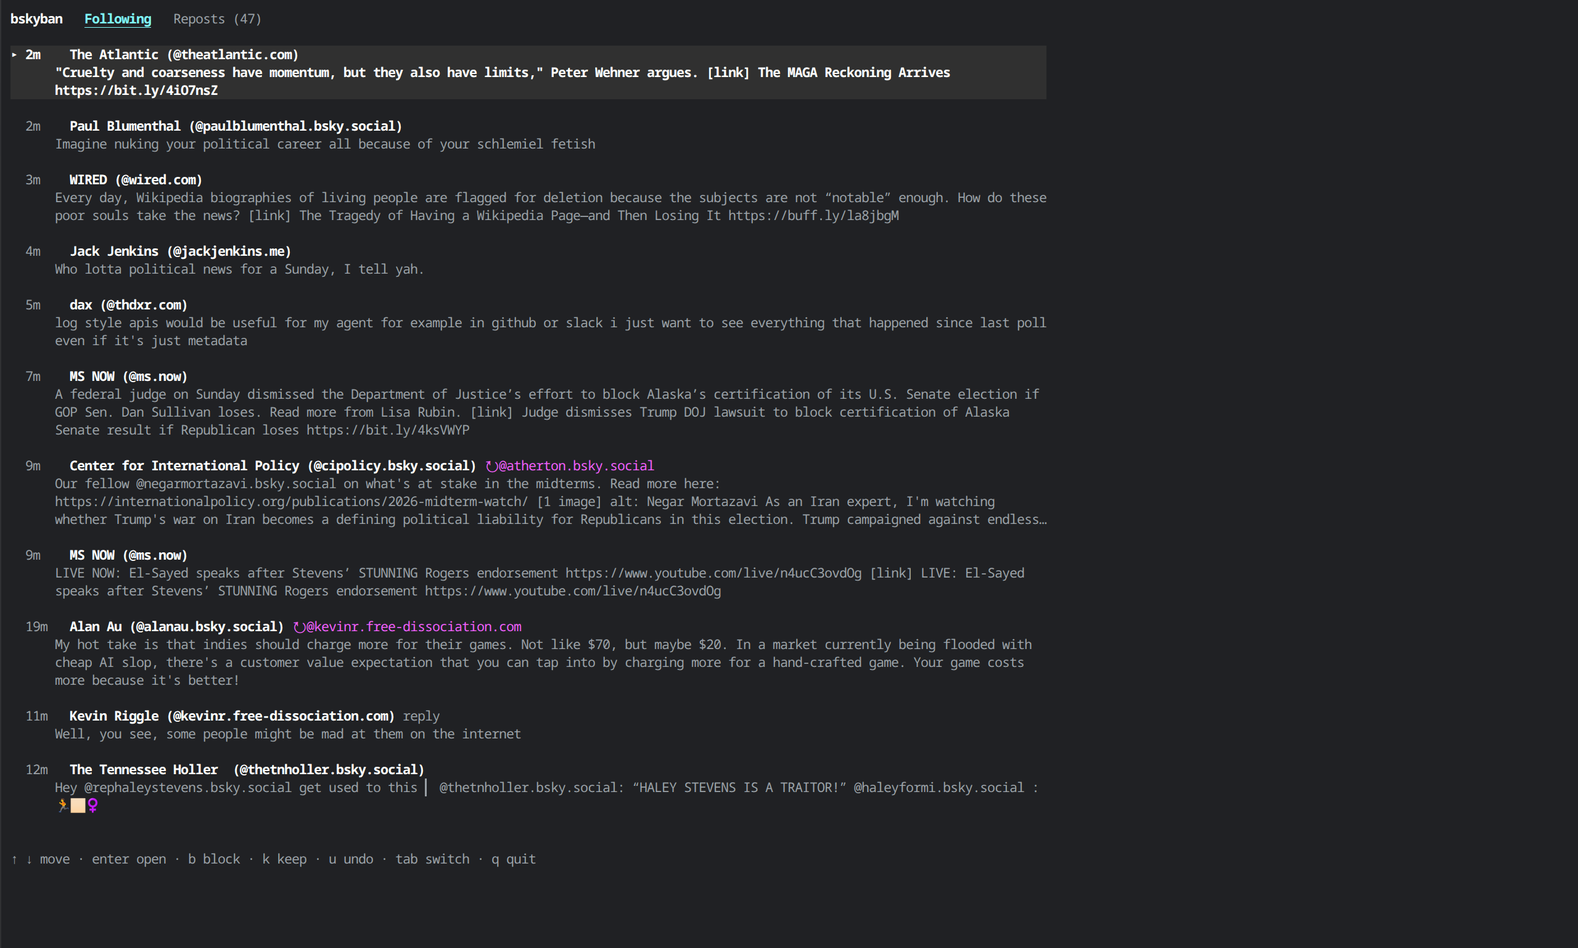
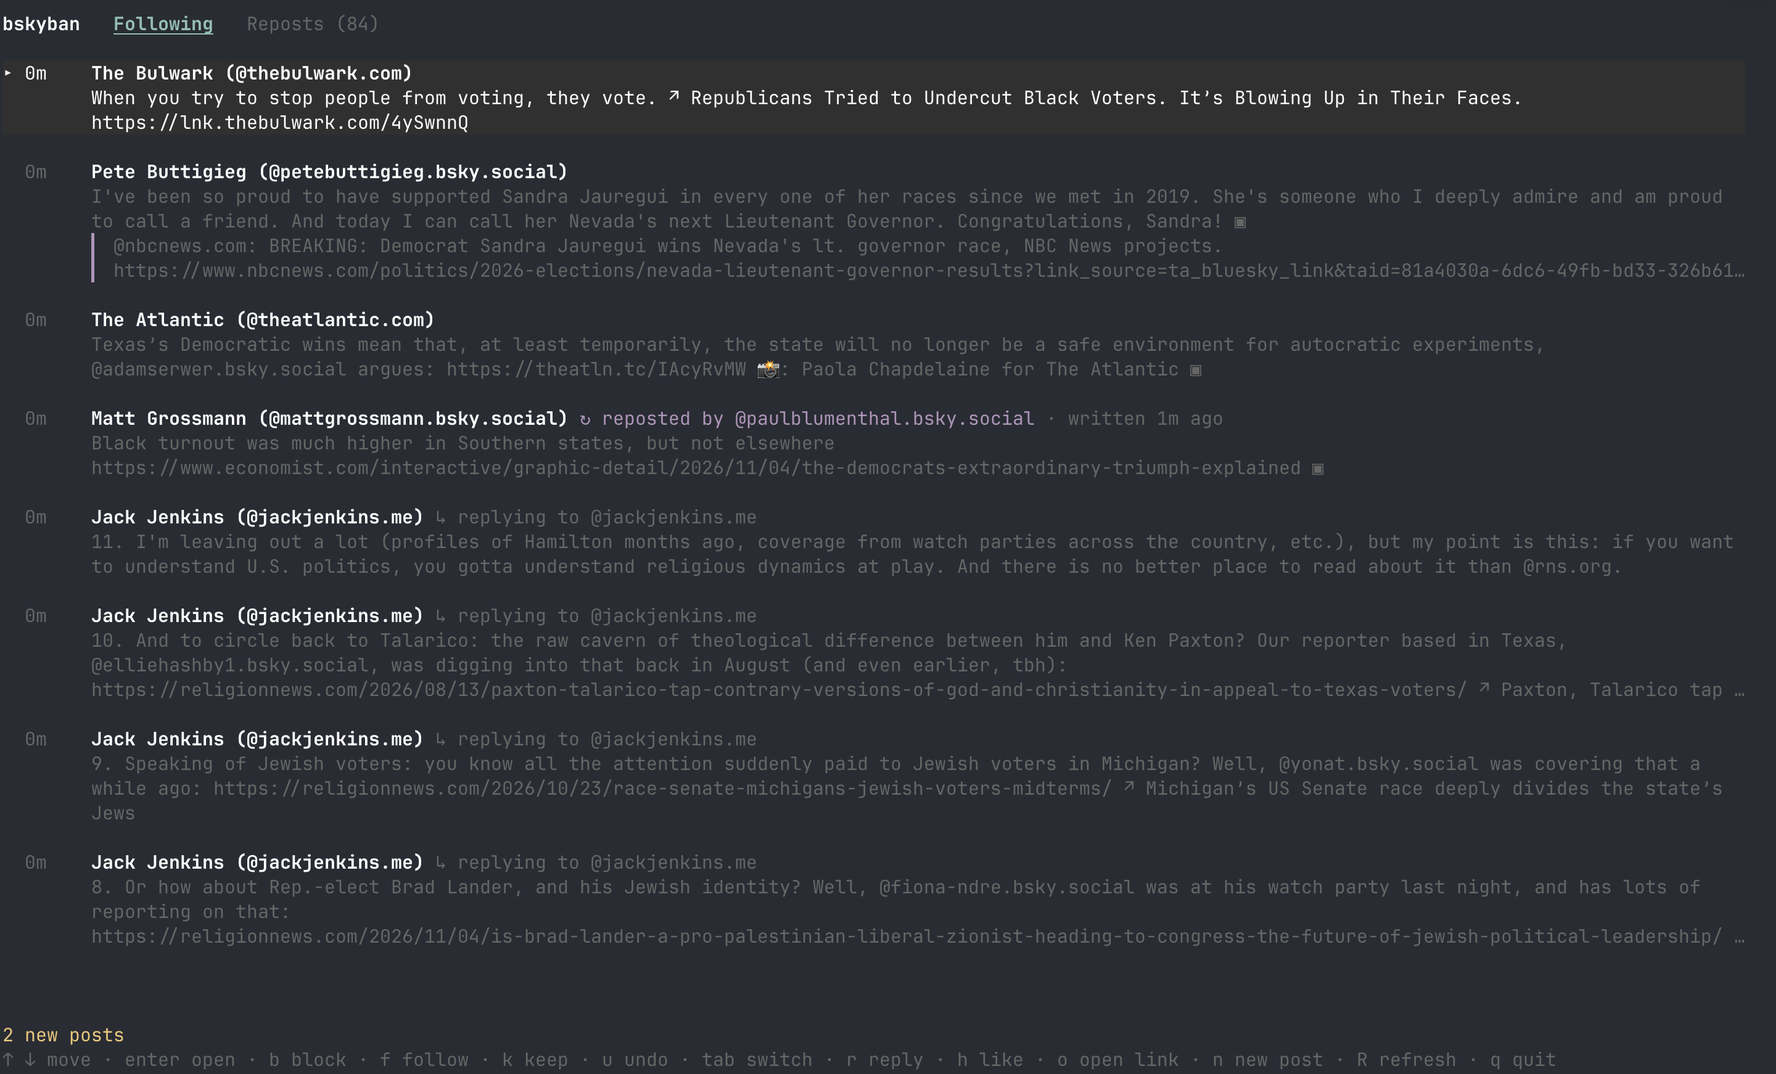
Add PKG.md and ARCHITECTURE.md, refresh screenshots, drop Windows launcher, bump x/sys

diff --git a/images_test.go b/images_test.go
@@ -52,8 +52,6 @@ func TestBrowserCommandPrefersBROWSER(t *testing.T) {
 	switch runtime.GOOS {
 	case "darwin":
 		wantDefault = "open " + u
-	case "windows":
-		wantDefault = "rundll32 url.dll,FileProtocolHandler " + u
 	}
 	for browser, want := range map[string]string{
 		"":                              wantDefault,

diff --git a/images.go b/images.go
@@ -45,8 +45,6 @@ func browserCommand(browser, u string) *exec.Cmd {
 	switch runtime.GOOS {
 	case "darwin":
 		return exec.Command("open", u)
-	case "windows":
-		return exec.Command("rundll32", "url.dll,FileProtocolHandler", u)
 	default:
 		return exec.Command("xdg-open", u)
 	}

diff --git a/ARCHITECTURE.md b/ARCHITECTURE.md
@@ -1,0 +1,192 @@
+# Architecture: bskyban
+
+This document describes the components and data flow of bskyban. For usage, keys and flags see `README.md`; for dependencies see `PKG.md`.
+
+## High-Level Overview
+
+bskyban is a single Go binary (`package main`, no sub-packages). It is a client for the Bluesky AT Protocol that offers two front ends over the same code: an interactive terminal UI (Bubble Tea) and scriptable subcommands. It talks only to the user's PDS over HTTPS and keeps two small local files.
+
+```mermaid
+graph TD
+    subgraph "Front ends"
+        TUI[TUI: review / feed / posts\nBubble Tea model]
+        CLI[Subcommands: list, show, block,\nfollow, like, post, log ...]
+    end
+
+    subgraph "Application layer"
+        App[app\nclient + state + audit]
+    end
+
+    subgraph "Local storage"
+        State[(state.json\ndecisions by DID)]
+        Audit[(audit.jsonl\nappend-only log)]
+    end
+
+    subgraph "Remote"
+        PDS[(Bluesky PDS\nXRPC over HTTPS)]
+    end
+
+    TUI --> App
+    CLI --> App
+    App --> |Client: net/http| PDS
+    App --> State
+    App --> Audit
+```
+
+Everything is in the repository root, one file per concern:
+
+| File | Responsibility |
+|------|----------------|
+| `main.go` | Dispatch (`realMain`): picks the subcommand, parses TUI flags before login, loads state, logs in, builds `app`, starts the right front end |
+| `api.go` | `Client`: XRPC calls, response types (`Profile`, `Post`, `FeedItem`, `Repost`), feed/embed parsing, record create/delete |
+| `cli.go` | `app` and every non-TUI subcommand, `act` (the block/keep/follow/unblock/unfollow logic), usage text, plain-text formatting |
+| `ui.go` | The single Bubble Tea `model`: messages, key handling, layout, rendering for all three TUIs |
+| `state.go` | `State`: decisions per DID in a JSON file |
+| `audit.go` | `Audit`: append-only JSON Lines log, the `log` subcommand, `Snapshot` of a profile |
+| `links.go` | Sanitizing remote text, URL detection, OSC 8 hyperlinks, wrapping text without breaking links |
+| `picker.go` | The `o` link picker for the selected post |
+| `images.go` | `openURL`/`browserCommand` (OS-aware browser launch) and the `i` key |
+| `theme.go` | The colour themes and how they are applied |
+
+## Components
+
+### 1. Entry point and dispatch (`main.go`)
+
+`realMain` takes the first argument as the subcommand (plain `bskyban` is `feed`). Order matters:
+
+1. `help`, `log` and `themes` run immediately and **need no login**.
+2. For `review`, `feed` and `posts` the flags (`--theme`, `--since`, `--pages`, `--refresh`, ...) are parsed *before* credentials are read, so a usage error exits with code 2 without needing the network or a password.
+3. `BSKY_HANDLE` / `BSKY_APP_PASSWORD` are read, state is loaded, and `Client.Login` creates a session.
+4. The chosen mode runs: a TUI via `runTUI`, or `app.run` for everything else.
+
+### 2. Bluesky client (`api.go`)
+
+A hand-written client with no SDK. `Client.do` builds `<pds>/xrpc/<nsid>`, sends JSON, attaches `Authorization: Bearer <accessJwt>`, and turns non-200 responses into `nsid: message (error)` errors. It has a 30s HTTP timeout. `Login` uses `com.atproto.server.createSession` and keeps only the access token, DID and handle: the app password is never stored and there is no token refresh, so a session lasts as long as the access token.
+
+- **Reads**: `app.bsky.graph.getFollowers`, `app.bsky.actor.getProfile(s)`, `app.bsky.feed.getAuthorFeed` (recent posts), `getTimeline`, `getPosts`.
+- **Writes** are record operations in the user's repo through `com.atproto.repo.createRecord` and `deleteRecord`: `Block`, `Follow`, `Like` and `Post` create records (`app.bsky.graph.block`, `graph.follow`, `feed.like`, `feed.post`) and return the record URI; `Unblock`, `Unfollow`, `Unlike` and `DeletePost` delete a record by URI. Which URI to delete comes from the profile's `viewer` fields (`blocking`, `following`) or from state.
+- **Feed parsing**: `feedEntry` models a timeline item. `isRepost` detects `reasonRepost`; `item()` turns an entry into a `FeedItem` (the post, its author, who reposted it, and counts); `viewContext` and `describeEmbed` extract quote posts, link cards, images and video markers; `expandLinks` replaces truncated link text with the full URL from the post's facets.
+- **Sanitizing**: `Profile.UnmarshalJSON` and the error path run remote strings through `terminalText` so display names, bios and error messages cannot inject terminal escapes.
+
+### 3. Local storage (`state.go`, `audit.go`)
+
+- **State** is a map from DID to `Entry{Handle, Decision, At}`, where `Decision` is `blocked`, `kept`, `followed` or `skipped`. It decides which followers and repost authors count as "new". `Save` writes a temp file and renames it (mode `0600`, directory `0700`), so a crash never leaves a half-written file.
+- **Audit** is append-only JSON Lines, guarded by a mutex and opened `O_APPEND`. Each `AuditEvent` records the time, action, DID, handle, source (`cli` or `tui:*`), previous decision, the record URI created or deleted, whether it was a dry run, the error if any, and a `Snapshot` of the profile at the time. It holds no secrets and is never rewritten. `bskyban log` reads it without logging in.
+
+Both paths default to `~/.local/state/bskyban/` (or `$XDG_STATE_HOME`) and can be overridden with `BSKYBAN_STATE` / `BSKYBAN_AUDIT`.
+
+### 4. The `app` and decisions (`cli.go`)
+
+`app` ties together `*Client`, `*State`, `*Audit` and the I/O streams. Both front ends call the same methods, so a block from the TUI and a block from `bskyban block` behave identically.
+
+`app.act` is the single place that changes an account relationship:
+
+```mermaid
+sequenceDiagram
+    participant Caller as CLI or TUI
+    participant App as app.act
+    participant PDS as Bluesky PDS
+    participant St as state.json
+    participant Log as audit.jsonl
+
+    Caller->>App: act(block | keep | follow | unblock | unfollow, handle)
+    App->>PDS: getProfile (resolves DID, reads viewer.blocking / following)
+    alt --dry-run
+        App-->>Caller: print "[dry-run] would ..." (no writes)
+    else already in the wanted state
+        App->>St: record the decision only
+    else
+        App->>PDS: create or delete the block / follow record
+        App->>St: Set / Delete decision (after the remote call succeeds)
+    end
+    App->>Log: deferred: one event, ok or error, with profile snapshot
+```
+
+Because the audit write is deferred, every attempt is logged, including dry runs and failures. The remote change happens *before* the local state change, so a failed remote call leaves state untouched, and a failed local save after a successful remote call is surfaced (see Resilience).
+
+`feedCandidates` builds the Reposts queue: it takes the reposts found in the timeline (`GetTimelineReposts`, `--pages` pages of 100 items), keeps the **original author** of each, drops anyone you follow, have blocked or already decided on (`isNew`), and collapses duplicates while remembering every `By` handle that reposted them (`repostCtx`).
+
+### 5. The TUI (`ui.go`)
+
+One `model` type serves all three TUIs. What differs is configuration, not code:
+
+| Mode | Tabs | Loader | Timeline source |
+|------|------|--------|-----------------|
+| `review` | candidates (new followers) | `app.followers` | none |
+| `feed` (default) | Following + candidates (repost authors) | `app.feedCandidates` | `GetTimeline` |
+| `posts` | your own posts (Following tab only) | none | `GetOwnPosts` |
+
+It follows the Elm pattern. `Init` fires the first loads; `Update` handles key presses and asynchronous result messages; `View` renders from the model alone. All I/O runs inside `tea.Cmd` functions that return a message:
+
+| Message | Meaning |
+|---------|---------|
+| `loadedMsg`, `followingMsg` | candidate list / a timeline page arrived |
+| `profileMsg`, `postsMsg` | a profile / an author's recent posts arrived (prefetched for the current and next item) |
+| `actMsg` | a block/follow/keep/skip finished (carries the undo entry and any record URI) |
+| `postedMsg`, `likedMsg`, `deletedMsg` | compose, like and delete results |
+| `refreshTickMsg`, `newItemsMsg` | background check for new posts and its result |
+| `animTickMsg` | redraw while a `--fancy` highlight fades |
+
+Layout is two columns: the profile (age, join date, avatar, post/follower/following counts, posts per day, follower ratio, "follows you") on the left, the posts on the right. Wide lines are wrapped by `wrapText` (in `links.go`), which keeps URL pieces linked across wrapped lines.
+
+#### Following tab: new-post refresh
+
+```mermaid
+stateDiagram-v2
+    [*] --> Idle
+    Idle --> Checking: refreshTickMsg (every --refresh) or R
+    Checking --> Idle: nothing new
+    Checking --> Inserted: on the first post: items added directly
+    Checking --> Pending: elsewhere in the list: only header shows "(+N new)"
+    Pending --> Inserted: R pressed (applyPending, selection kept)
+    Inserted --> Idle
+```
+
+A check is read-only and only requests the newest page(s). New posts are deliberately *not* inserted while you read, so the list never shifts under you.
+
+#### Undo and decisions
+
+Each decision pushes an `undoEntry` (the profile, the previous `Entry`, and the record URI it created). `u` pops the latest entry for the current tab: it deletes the block/follow record that decision created and, if the previous decision was also a remote one (block or follow), recreates it, then restores the previous state entry. Re-deciding an already-handled account lifts the earlier block/follow record first (`lifted`).
+
+#### Resilience
+
+- Actions run one at a time (`busy`); `q` during an action waits for it, its save and its audit entry.
+- If the remote call succeeded but the state file could not be written, the model keeps the result in `pending` and shows `press r to retry saving`; further decisions and quitting wait until the save succeeds, so the remote and local records cannot silently diverge.
+- Blocking an account you follow asks for a second `b`.
+- A failed background check shows `⚠ refresh failed` in the header and clears on the next good check.
+
+### 6. Rendering remote text safely (`links.go`)
+
+Bluesky text is untrusted input in a terminal. `terminalText` strips ANSI sequences and control characters from every remote string *before* styling or hyperlinks are added (never on already-rendered output). `linkify`, `splitWord` and `osc8` then wrap URLs and `@handle` mentions in OSC 8 hyperlinks, ignoring styling escapes so links are never detected inside them. In terminals that support OSC 8 the links are clickable (in Ghostty on macOS, Cmd+click); `visibleWidth` ignores the escapes when measuring.
+
+### 7. Opening links and images (`picker.go`, `images.go`)
+
+- `o` builds `postLinks` for the selected post, in a fixed order: the post on bsky.app, its link card, URLs in the text, the quoted post, mentioned accounts, the author's profile; duplicates are dropped and the list is capped at nine. `1`-`9` opens one; `o` again opens the single outside link, or the post itself. Any other key closes the picker.
+- `i` opens the post's images. Both use `openURL`, which runs `browserCommand`: `$BROWSER` if set (first colon-separated entry, `%s` marks the URL; on ChromeOS Linux this is `garcon-url-handler`), otherwise `open` on macOS, `xdg-open` elsewhere. The command is started and reaped in the background; it is a variable so tests replace it.
+
+### 8. Themes (`theme.go`)
+
+A `Theme` is a set of Lip Gloss colours plus the selected-row colour and the `--fancy` fade colours. `applyTheme` assigns the package-level styles used by `ui.go`. `resolveTheme` picks `--theme`, then `BSKYBAN_THEME`, then `auto`. Adaptive themes (`auto`, `catppuccin`) use Lip Gloss `AdaptiveColor`, which needs the terminal's background, so `runTUI` calls `lipgloss.HasDarkBackground()` **once, before the Bubble Tea program starts**. Querying lazily on the first draw lets Bubble Tea's input reader swallow the terminal's reply (or read it as keys), and a terminal that never answers would stall the first frame for termenv's 5s timeout. Fixed themes skip detection. `NO_COLOR` is honoured and the `▸` marker still shows the selection.
+
+## Data Flow
+
+1. **Start**: the binary parses flags, logs in with the app password, loads `state.json`.
+2. **Load**: the TUI's `Init` loads the candidate list and, in feed mode, the first timeline page, and schedules the refresh tick.
+3. **Browse**: moving the selection prefetches the current and next profile and the author's recent posts, so the next account is usually ready.
+4. **Decide**: a key press becomes an `act` (remote record change, then local state, then audit entry), run in a `tea.Cmd`; the result returns as `actMsg` and the model advances to the next account.
+5. **Post, reply, like, delete**: the same shape: a `tea.Cmd` calls the client, the result message updates the list, and an audit event with source `tui:following` is written.
+6. **Refresh**: ticks check for new posts read-only; nothing is inserted until you are at the top or press `R`.
+
+## Design Principles
+
+- **Dependency-light**: the Bluesky API surface is about ten XRPC methods (`createSession`, `getProfile(s)`, `getFollowers`, `getTimeline`, `getAuthorFeed`, `getPosts`, `createRecord`, `deleteRecord`) over `net/http`, so there is no SDK and the only dependencies are the Charm UI libraries and `uniseg`.
+- **One logic path for both front ends**: `app.act` and the client methods back the TUI and the subcommands alike, so behaviour and audit entries cannot drift apart.
+- **Read-only until you press a key**: browsing, refreshing and prefetching never write; every write is an explicit action and has `--dry-run` in the CLI.
+- **Everything is reversible and recorded**: decisions can be undone, and every attempt, including failures and dry runs, is in the audit log with the profile as it was.
+- **Remote data is untrusted**: text is sanitized at the edge (JSON decoding and error messages) and again before display, and styling/hyperlinks are only added to already-clean text.
+- **Local state cannot be half-written**: atomic rename for state, append-only audit, and a retry path when a save fails after a remote success.
+- **Least privilege**: use an app password without direct-message access; it is read from the environment and never written to disk.
+
+## Testing
+
+`go test ./...` covers the logic with in-process fakes. `feed_test.go` and `ui_test.go` use `httptest` servers in place of the PDS; the rest test pure functions (link wrapping, theme resolution, the picker, state and audit files, layout, the refresh and compose flows) and drive the model by sending it messages. `smoke.sh` runs the real binary against a real account without changing it: only read-only requests and `--dry-run`, never the TUI, with a temporary state directory.

diff --git a/PKG.md b/PKG.md
@@ -1,0 +1,37 @@
+# 3rd Party Dependencies
+
+This document lists and classifies the 3rd party dependencies used in the `bskyban` project (see `go.mod`). Everything else is the Go standard library: Bluesky is reached with `net/http` and `encoding/json` against the AT Protocol XRPC endpoints, with no Bluesky SDK. The Go toolchain is 1.26+.
+
+## Terminal UI (The Charm Stack)
+
+*   **[github.com/charmbracelet/bubbletea](https://github.com/charmbracelet/bubbletea)**: TUI framework based on the Elm architecture. `ui.go` implements the `tea.Model` (`Init`/`Update`/`View`) for all three TUIs (`review`, `feed`, `posts`); background work (API calls, refresh ticks, animation ticks) comes back to `Update` as messages. `runTUI` starts it in the alternate screen.
+*   **[github.com/charmbracelet/bubbles](https://github.com/charmbracelet/bubbles)**: Common Bubble Tea components. This repo uses `spinner` (loading indicators) and `textinput` (the post/reply composer).
+*   **[github.com/charmbracelet/lipgloss](https://github.com/charmbracelet/lipgloss)**: Styles and layout. `theme.go` defines the colour themes as Lip Gloss styles (`applyTheme`), `ui.go` uses them for the two-panel layout, and `lipgloss.HasDarkBackground()` is called once in `runTUI` before the program starts so adaptive themes pick light or dark colours.
+*   **[github.com/charmbracelet/x/ansi](https://github.com/charmbracelet/x)**: ANSI parsing helpers. `links.go` uses `ansi.Strip` in `terminalText` to remove escape sequences from remote text before the program adds its own styling.
+*   **[github.com/charmbracelet/x/term](https://github.com/charmbracelet/x)**: Terminal size and TTY detection, used in `cli.go` (`termWidth`) to wrap printed CLI output.
+
+## Testing
+
+*   **[github.com/muesli/termenv](https://github.com/muesli/termenv)**: Terminal colour profile and background detection, which Lip Gloss uses underneath. This repo imports it only in `theme_test.go`, to render each theme at every colour depth. At run time it is why the background must be queried before Bubble Tea starts reading input (see `ARCHITECTURE.md`), and it handles `NO_COLOR`.
+
+## Text Processing
+
+*   **[github.com/rivo/uniseg](https://github.com/rivo/uniseg)**: Unicode text segmentation. `ui.go` uses `uniseg.GraphemeClusterCount` to enforce Bluesky's 300-grapheme post limit and show the counter in the composer, and `cli.go` applies the same limit to `bskyban post`.
+
+## Indirect dependencies
+
+Pulled in underneath the packages above; this repo does not import them.
+
+*   **[github.com/charmbracelet/colorprofile](https://github.com/charmbracelet/colorprofile)**, **[github.com/lucasb-eyer/go-colorful](https://github.com/lucasb-eyer/go-colorful)**: colour depth detection and colour maths for the themes.
+*   **[github.com/mattn/go-runewidth](https://github.com/mattn/go-runewidth)**, **[github.com/clipperhouse/displaywidth](https://github.com/clipperhouse/displaywidth)** (with `stringish` and `uax29`): display-width calculation for wide characters and emoji.
+*   **[github.com/muesli/ansi](https://github.com/muesli/ansi)**, **[github.com/charmbracelet/x/cellbuf](https://github.com/charmbracelet/x)**, **[github.com/xo/terminfo](https://github.com/xo/terminfo)**: ANSI-aware string handling and the terminal cell buffer used by the renderer.
+*   **[github.com/muesli/cancelreader](https://github.com/muesli/cancelreader)**, **[github.com/mattn/go-localereader](https://github.com/mattn/go-localereader)**, **[github.com/erikgeiser/coninput](https://github.com/erikgeiser/coninput)**, **[github.com/mattn/go-isatty](https://github.com/mattn/go-isatty)**: cancellable terminal input and TTY detection.
+*   **[github.com/atotto/clipboard](https://github.com/atotto/clipboard)**, **[github.com/aymanbagabas/go-osc52](https://github.com/aymanbagabas/go-osc52)**: clipboard support used by the `textinput` component.
+*   **[golang.org/x/sys](https://pkg.go.dev/golang.org/x/sys)**, **[golang.org/x/text](https://pkg.go.dev/golang.org/x/text)**: OS primitives and text tables for the packages above.
+
+## Not dependencies
+
+*   **No Bluesky/AT Protocol SDK.** `api.go` calls `com.atproto.*` and `app.bsky.*` XRPC methods directly with `net/http` (30s client timeout) and `encoding/json`.
+*   **No browser or image library.** Links and images open through the platform launcher in `images.go`: `$BROWSER` when set, otherwise `open` (macOS) or `xdg-open` (Linux). The `chafa` terminal viewer was removed.
+*   **No database.** Decisions live in a JSON file (`state.go`) and the audit log is JSON Lines (`audit.go`), both from `encoding/json` and `os`.
+*   **No CLI framework.** Subcommands are dispatched in `main.go` and flags use the standard `flag` package.

diff --git a/README.md b/README.md
@@ -12,14 +12,24 @@ follow counts, bio) next to their recent posts, then choose to block or keep.
 ## Screenshots
 
 **Following** – your home timeline, a few lines per post. Reposts are tagged with who
-reposted them; `Enter` opens a post in full.
+reposted them; `Enter` opens a post in full. The key hints along the bottom show what each
+key does (`o` open link, `h` like, `r` reply, `n` new post).
 
 ![The Following tab: timeline posts with author, age and up to three lines of text each](docs/screenshots/following-list.png)
 
 **Reposts** – the original author of a reposted post, with their profile on the left and
 the reposted post and their recent posts on the right. Block, keep or skip with one key.
+The profile shows account age, join date, avatar, post, follower and following counts,
+posts per day and follower/following ratio, which together make new spam accounts easy to
+spot.
 
-![The Reposts tab: an account's profile beside the post that was reposted into the timeline](docs/screenshots/reposts-tab.png)
+![The Reposts tab: an account's profile with age, join date, posts per day and follower ratio beside the post that was reposted into the timeline](docs/screenshots/reposts-tab.png)
+
+**Review** – `bskyban review` walks through new followers you don't follow back. A
+"follows you" row confirms the relationship. Here a two-day-old account that follows 112
+people and has 5 followers, with templated replies.
+
+![Follower review: a two-day-old account with 4.9 posts a day and a 0.0 follower ratio next to its recent posts](docs/screenshots/review.png)
 
 ## Install
 
@@ -100,6 +110,12 @@ Following someone records them as `followed`, so they leave the new list. Changi
 mind later works like a block: pressing `k`, `s` or `b` on a followed account removes
 the follow first, and `u` puts it back.
 
+The profile panel shows: account age and join date, whether there is an avatar, post,
+follower and following counts, posts per day (lifetime posts over account age), the
+follower/following ratio, and `follows you` when they follow you. Accounts that are days
+old, post many times a day and follow far more people than follow them are the usual
+spam pattern.
+
 Moving back to a follower you already handled shows what you decided (`● blocked`,
 `● kept`, `● skipped`). Pressing a letter again overrides it: `k` or `s` on a
 blocked account lifts the block, and `u` puts the previous decision back.
@@ -129,7 +145,7 @@ lines, with a quoted post on up to two lines of its own (`▎`). A repost is age
 was reposted (`↻ reposted by @who · written 8m ago` gives the post's own age), and a reply
 names who it answers (`↳ replying to @who`). Each post's age (`4m`) is a clickable link to it on bsky.app. Link previews show as
 `↗ Title https://…`, leaving out whatever the post's text already says; URLs are
-always shown in full so your terminal can open them. Replies right below a post in
+always shown in full so your terminal can open them (in Ghostty on macOS, Cmd+click; press `o` to open links without the mouse). Replies right below a post in
 the same thread are indented beneath it; open one to see it in full (with its like, repost, reply and quote counts and an
 `open post ↗` link to bsky.app) next to its author's profile, including
 the parent of a reply, quoted posts, image links and recent posts by the author.
